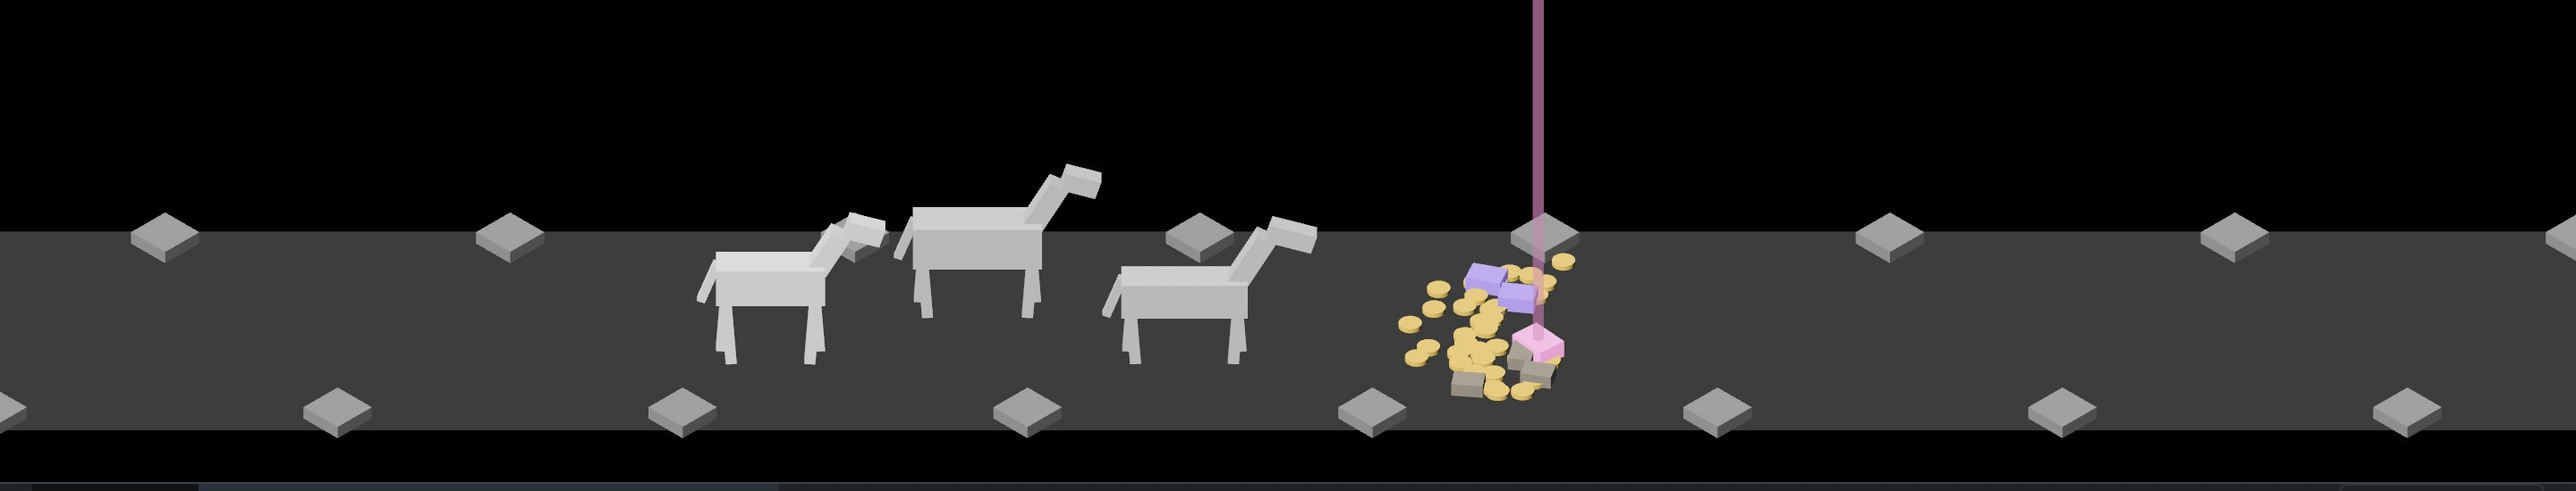
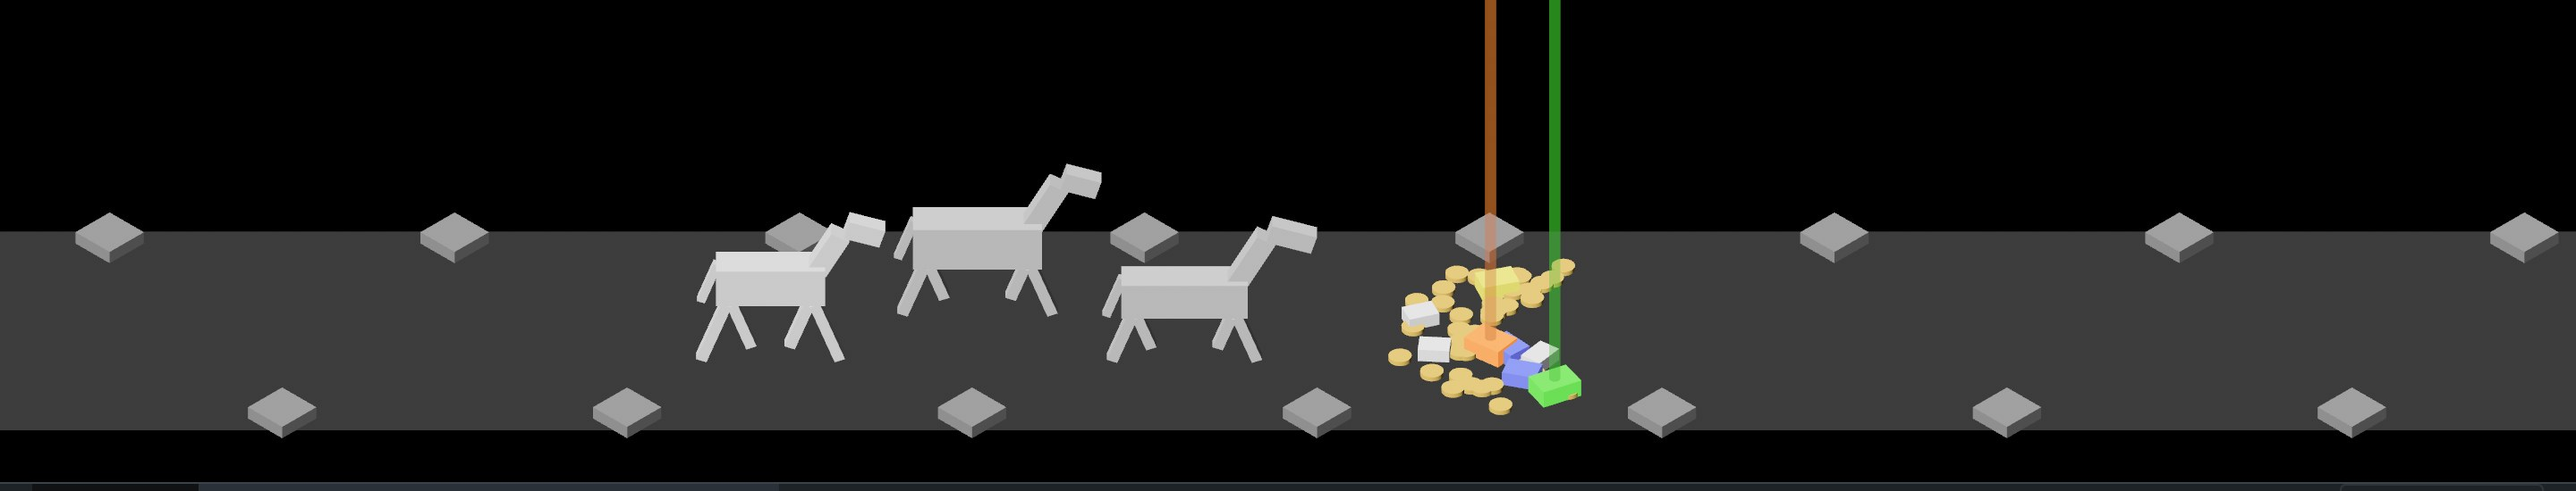
Record the five rarity tiers and their colours; docs, gallery, session log
Claude-Session: https://claude.ai/code/session_01BapWxoSzCtCLCU4yky2n9p

diff --git a/docs/loot-shower.md b/docs/loot-shower.md
@@ -30,19 +30,23 @@ A gear piece is a box (`gear_size` in `loot_shower.ron`); a coin is a disc.
 Its rarity is shown four ways, all in the rarity's `look` in
 `assets/data/gear.ron`, beside its weights:
 
-- `colour`: Common a dull grey-brown, Uncommon violet, Rare pink.
-- `glow`: how strongly the piece gives off that colour. Common has none.
+- `colour`: Normal white, Magic blue, Rare yellow, Legendary orange, Set
+  green. The five tiers and their colours are the owner's choice
+  (2026-10-10, [vision.md](philosophy/vision.md)).
+- `glow`: how strongly the piece gives off that colour. Normal has none.
 - `size`: a multiple of `gear_size`. Higher tiers are larger.
 - `beam`: a column of light standing on the ground where the piece is. It
   is hidden with the piece and rises over `rise_secs` from the moment the
-  piece is thrown, so it is up while the piece is still in the air. Only
-  Rare has one today; any tier given a `beam` gets one.
+  piece is thrown, so it is up while the piece is still in the air.
+  Legendary and Set have one; any tier given a `beam` gets one.
 
 A piece names its rarity by its place in the list in `gear.ron`, lowest
 first, and there is no rarity enum, so a new tier is one more line there and
-no code. The colours get lighter up the tiers, so they differ in greyscale
-too, and each is at least 40 degrees of hue from the three element colours
-(`scene::element_colour`) and from the coins' gold; a test holds both.
+no code. A test holds that no two tiers share a colour. Rarity colours do
+not have to differ from the element colours: rarity shows on drops and in
+menus only (owner, 2026-10-10). Blue is close to Ice, orange to Fire and
+green to Plant, and a yellow Rare is hard to pick out among gold coins;
+shape per tier (#240) is what will separate those.
 
 ## The numbers
 
@@ -77,13 +81,14 @@ with the ground.
 ## The test burst
 
 `F3`, or `--burst` one second after launch, throws `burst_pieces` coins and
-the gear named in `burst_gear` (three Common, two Uncommon, one Rare) from
+the gear named in `burst_gear` (three Normal, two Magic, and one each of
+Rare, Legendary and Set) from
 `burst_seed` from where the first enemy stands. It is the same burst every
 time, it stays where it lands, and pressing F3 again replaces it. When its
 pieces are at rest the log has one line:
 
-    test burst: 46 pieces at rest after 2.47 s, mean frame 33.4 ms, worst
-    39.3 ms (with none in the air: mean 33.3 ms, worst 37.2 ms)
+    test burst: 48 pieces at rest after 2.67 s, mean frame 33.4 ms, worst
+    39.1 ms (with none in the air: mean 33.4 ms, worst 34.3 ms)
 
 Compare the two means to see what a burst costs. To tune:
 `procedures/tune-loot-feel.txt`.
@@ -91,8 +96,8 @@ Compare the two means to see what a burst costs. To tune:
     $env:IDLE_SHOT = "screenshots/burst.png"; $env:IDLE_SHOT_AT = "2.2"
     cargo run -- --seed 6 --burst *> run.log
 
-A picture at 2.2 s is the burst in the air; at 2.8 s the Rare is in the air
-under its beam; at 4.5 s it is at rest.
+A picture at 2.2 s is the burst in the air; at 2.9 s the last pieces are in
+the air and both beams are up; at 4.8 s it is at rest.
 
 ## Tests
 
@@ -101,7 +106,7 @@ launches are staggered and within their speeds; a burst is spread over the
 fan; every piece bounces as often as the data says and rests on the trail;
 no piece rests on a standing enemy, whichever of the three died; the test
 burst has gear of every rarity; the seed puts the gear among the coins; the
-rarity colours are lighter up the tiers and clear of the element colours.
+no two rarities share a colour, and the top tier has a beam.
 `src/sim/expedition.rs`: every kill is reported once, and the coins of the
 kills add up to the run's coins; the winning kill carries the run's gear and
 no other kill carries any.

diff --git a/docs/philosophy/vision.md b/docs/philosophy/vision.md
@@ -148,7 +148,8 @@ detail is in [cargo.md](cargo.md).
   party home or skips the boss.
 - The player can tune what is kept. The default is highest rarity first.
 - Rare gear is exciting: its own rarity colour, a more distinctive look, a
-  more impressive reveal.
+  more impressive reveal. (The tiers and colours were named on 2026-10-10:
+  see "Rarity tiers and their colours" below.)
 
 ### Travel
 
@@ -507,6 +508,25 @@ the same day. The advice built on them is in [menus.md](menus.md).
 - **Menus are built first.** "The menus should be one of the first things we
   build, so we can tune it throughout. All buttons should be there, even if
   they're not functional, as early as possible."
+
+## Rarity tiers and their colours (owner, 2026-10-10)
+
+"Use the same rarity tiers and coloring as Diablo 3."
+
+- Five tiers, lowest first: **Normal** (white), **Magic** (blue), **Rare**
+  (yellow), **Legendary** (orange), **Set** (green). They replace Common,
+  Uncommon and Rare.
+- "Rarity tiers don't need to stay distinguished from element colors,
+  because rarity tiers apply on drops and in menus only." This replaces the
+  rule in [cargo.md](cargo.md) that rarity colours must be distinguishable
+  from the Fire, Ice and Plant colours.
+- "All five drop" now, though Legendary powers and set bonuses are not
+  built: until they are, those two tiers are more stat points and a beam.
+  Giving each tier its job is #33.
+
+Mine, not hers: the tier names are that game's; the exact hex values, drop
+weights, stat points and name prefixes in `gear.ron`; and that Legendary and
+Set are the tiers with a beam.
 
 ## The design priority
 

diff --git a/docs/gallery/2026-10-10-rarity-signal/README.md b/docs/gallery/2026-10-10-rarity-signal/README.md
@@ -1,13 +1,14 @@
 # The rarity signal, 2026-10-10
 
-Pictures taken while building the rarity signal (#6). Both are the test
-burst, `cargo run -- --seed 6 --burst`, with `IDLE_SHOT_AT` 2.8 and 4.5, cut
-down to the scene. How it works: [loot-shower.md](../../loot-shower.md).
+Pictures taken while building the rarity signal (#6), retaken the same day
+with the owner's five tiers and colours. Both are the test burst,
+`cargo run -- --seed 6 --burst`, with `IDLE_SHOT_AT` 2.9 and 4.8, cut down to
+the scene. How it works: [loot-shower.md](../../loot-shower.md).
 
-**1.** A Rare in the air: the pink piece is still tumbling, and its beam already stands over it. Two Uncommon pieces (violet) lie beside it.
+**1.** The last pieces in the air: a Normal piece (white) still tumbling at the top, and the Legendary (orange) and Set (green) beams already standing.
 
-![A Rare in the air under its beam.](01-a-rare-in-the-air-under-its-beam.jpg)
+![The last pieces in the air under two beams.](01-the-last-pieces-in-the-air-under-two-beams.jpg)
 
-**2.** The mixed burst at rest: three Common pieces (dull grey-brown), two Uncommon (violet) and the Rare (pink, larger, under its beam) among 40 coins.
+**2.** The mixed burst at rest among 40 coins: three Normal (white), two Magic (blue), a Rare (yellow, at the top, hard to pick out among the coins), a Legendary (orange) and a Set (green), the last two under their beams.
 
 ![The mixed burst at rest.](02-the-mixed-burst-at-rest.jpg)

diff --git a/docs/philosophy/cargo.md b/docs/philosophy/cargo.md
@@ -1,5 +1,10 @@
 # Cargo and what the party keeps
 
+> 2026-10-10: the owner replaced two things below. The tiers are now Normal,
+> Magic, Rare, Legendary and Set, not Common, Uncommon and Rare; and rarity
+> colours no longer have to be distinguishable from the element colours.
+> See [vision.md](vision.md), "Rarity tiers and their colours".
+
 How loot is carried, what survives the journey, and how it is handled on
 arrival. Five points here are the owner's confirmed decisions and are listed
 first. The rest is a small set of proposed details.

diff --git a/docs/philosophy/items-and-builds.md b/docs/philosophy/items-and-builds.md
@@ -105,7 +105,8 @@ and a reason to return.
 
 ## For Horse Heroes
 
-- There are three tiers (Common, Uncommon, Rare) and they differ only in stat
+- There are five tiers (Normal, Magic, Rare, Legendary, Set; owner,
+  2026-10-10, replacing Common, Uncommon, Rare) and they differ only in stat
   points. By the test above none of them has a job yet. The first tier with a
   job is the one that carries a gear effect.
 - A piece fits one named horse and one of three slots, so there are nine slots
